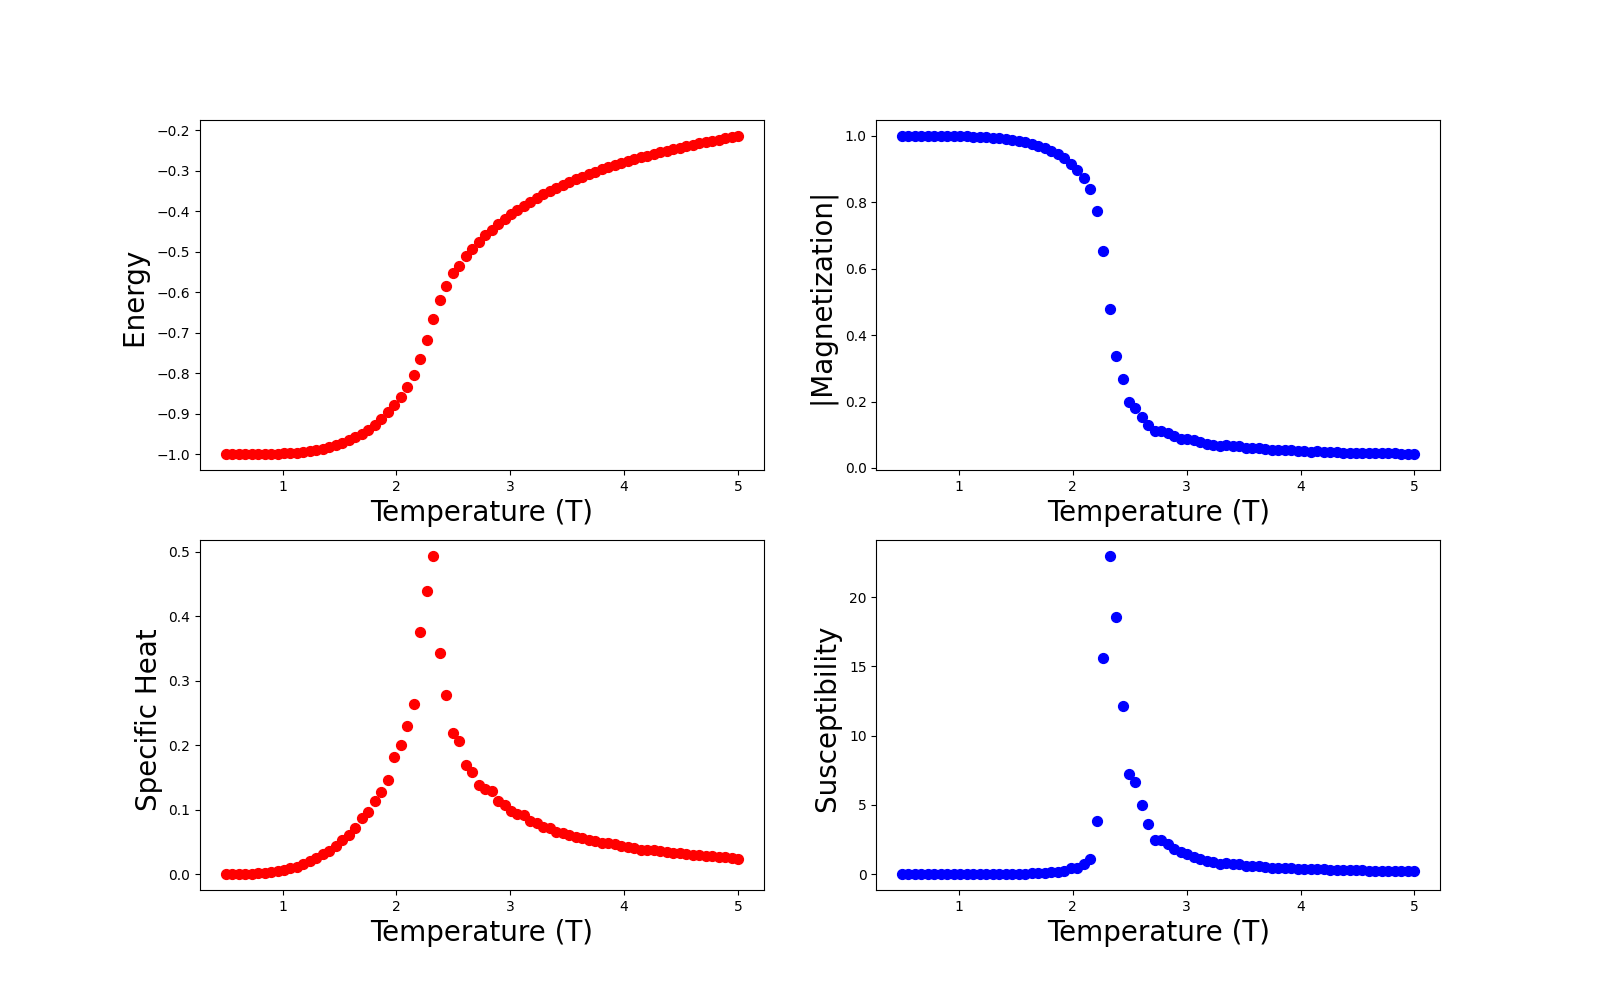
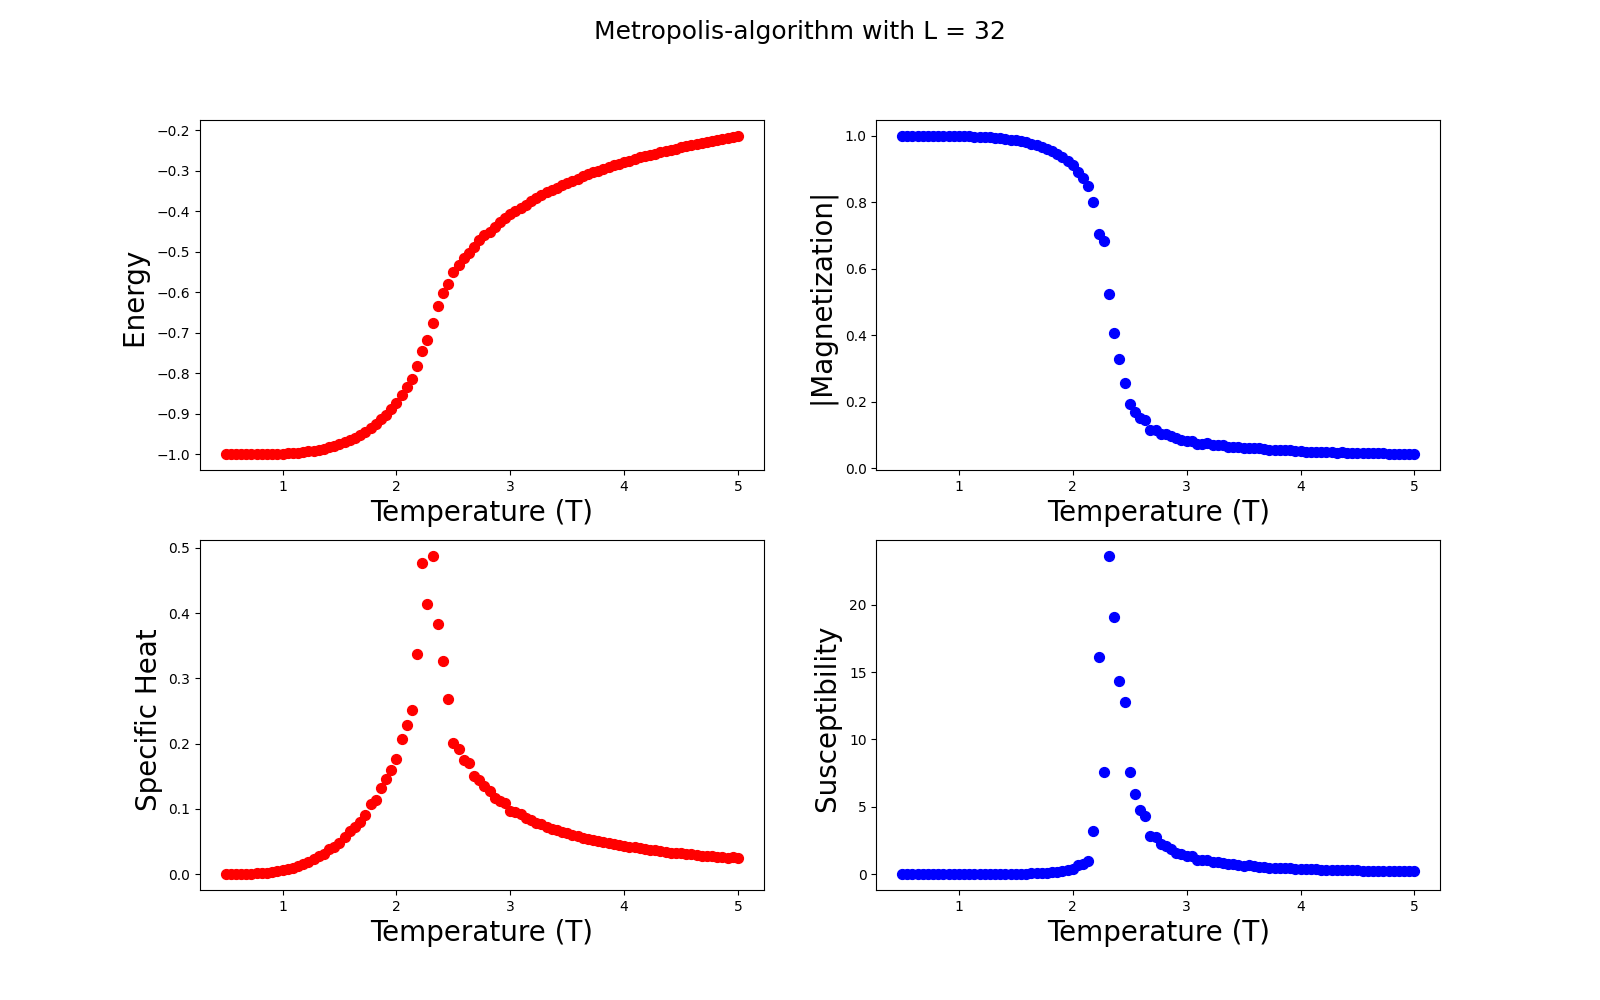
added demo

diff --git a/src/demo.py b/src/demo.py
@@ -1,0 +1,113 @@
+import argparse
+import os
+
+import numpy as np
+import matplotlib.pyplot as plt
+
+# Import from your sim.py
+from sim import init_lattice, MonterCarlo_move, Energy, Mag
+
+
+
+def make_snapshots(
+    L: int = 32,
+    T: float = 2.27,
+    eq_sweeps: int = 50000,
+    snaps: int = 6,
+    sweeps_per_step: int = 1,
+    seed: int | None = 0,
+):
+    """
+    Runs Metropolis equilibration and captures `snaps` lattice snapshots from
+    sweep 0 up to eq_sweeps.
+
+    sweeps_per_step:
+        how many Monte Carlo sweeps to apply between sweep counter increments
+        (keep at 1 if MonterCarlo_move already equals 1 sweep).
+    """
+    if seed is not None:
+        np.random.seed(seed)
+
+    J = 1.0 / T  # your convention (beta baked into J)
+    N = L * L
+
+    s = init_lattice(L)
+
+    # Choose 6 stages: 0%, 1%, 5%, 10%, 25%, 100% of equilibration
+    frac = np.array([0.0, 0.01, 0.05, 0.10, 0.25, 1.0])
+    sweep_targets = (frac * eq_sweeps).astype(int)
+
+    # Ensure strictly increasing and within bounds
+    sweep_targets = np.unique(np.clip(sweep_targets, 0, eq_sweeps))
+
+    # If unique reduced count (small eq_sweeps), pad with linear targets
+    if len(sweep_targets) < snaps:
+        sweep_targets = np.linspace(0, eq_sweeps, snaps).astype(int)
+        sweep_targets = np.unique(sweep_targets)
+
+    # If too many, keep first `snaps` (shouldn’t happen with default frac)
+    sweep_targets = sweep_targets[:snaps]
+
+    snapshots = []
+    current = 0
+
+    # Record sweep 0
+    snapshots.append((0, s.copy(), Energy(s, L, J) / N, abs(Mag(s)) / N))
+
+    for target in sweep_targets[1:]:
+        while current < target:
+            # one "sweep" of Metropolis according to your sim.py function
+            for _ in range(sweeps_per_step):
+                MonterCarlo_move(s, L, J)
+            current += 1
+
+        e = Energy(s, L, J) / N
+        m = abs(Mag(s)) / N
+        snapshots.append((current, s.copy(), e, m))
+
+    return snapshots
+
+def plot_snapshots(snapshots, L: int, T: float, outpath: str | None = None, show: bool = True):
+    fig, axes = plt.subplots(2, 3, figsize=(11, 7))
+    axes = axes.ravel()
+
+    for ax, (sw, conf, e, m) in zip(axes, snapshots):
+        ax.imshow(conf, cmap="Blues", vmin=-1, vmax=1, interpolation="nearest")
+        ax.set_title(f"{sw}")
+        ax.set_xticks([])
+        ax.set_yticks([])
+
+    # If fewer than 6 snapshots, hide remaining axes
+    for k in range(len(snapshots), 6):
+        axes[k].axis("off")
+
+    fig.suptitle(f"Metropolis equilibration snapshots (L={L}, T={T})", fontsize=14)
+    fig.tight_layout()
+
+    if outpath is not None:
+        fig.savefig(outpath, dpi=300)
+
+    if show:
+        plt.show()
+
+    plt.close(fig)
+
+if __name__ == "__main__":
+    parser = argparse.ArgumentParser(description="Snapshot demo: Metropolis equilibration (2D Ising)")
+    parser.add_argument("--L", type=int, default=32, help="Lattice size")
+    parser.add_argument("--T", type=float, default=2.27, help="Temperature")
+    parser.add_argument("--eq", type=int, default=100000, help="Equilibration sweeps")
+    parser.add_argument("--seed", type=int, default=1, help="Random seed")
+    parser.add_argument("--out", type=str, default="", help="Output filename (png). If empty, auto-name.")
+    parser.add_argument("--no-show", action="store_true", help="Do not display the figure window")
+
+    args = parser.parse_args()
+
+    snaps = make_snapshots(L=args.L, T=args.T, eq_sweeps=args.eq, seed=args.seed)
+
+    out = args.out.strip()
+    if not out:
+        out = f"./figs/equilibration_snapshots_L{args.L}_T{args.T:.3f}.png"
+
+    plot_snapshots(snaps, L=args.L, T=args.T, outpath=out, show=(not args.no_show))
+    print(f"Saved snapshots figure to: {out}")

diff --git a/src/sim.py b/src/sim.py
@@ -9,8 +9,8 @@ import json
 import argparse
 
 import os
-os.makedirs("data", exist_ok=True)
-os.makedirs("figs", exist_ok=True)
+os.makedirs("./data", exist_ok=True)
+os.makedirs("./figs", exist_ok=True)
 
 
 def init_lattice(L):
@@ -174,7 +174,8 @@ if __name__ == '__main__':
     if args.plot:
         f = plt.figure(figsize=(16,10))
 
-
+        f.suptitle(f"Metropolis-algorithm with L = {L}",
+           fontsize=18)
         sp =  f.add_subplot(2, 2, 1 );
         plt.scatter(T_list, E, s=50, color='Red')
         plt.xlabel("Temperature (T)", fontsize=20);
@@ -198,4 +199,4 @@ if __name__ == '__main__':
         plt.savefig(f'./figs/Task1_{L}x{L}')
         plt.show()
 
-print('Complete')
+    print('Complete')

diff --git a/src/sim_negative_J.py b/src/sim_negative_J.py
@@ -3,6 +3,9 @@ import matplotlib.pyplot as plt
 import json
 from tqdm.auto import tqdm
 from numba import njit
+import os
+os.makedirs("./data", exist_ok=True)
+os.makedirs("./figs", exist_ok=True)
 from sim import main, equilibriate, MonterCarlo_move, Mag, init_lattice, to_list
 
 

diff --git a/src/sim_with_B.py b/src/sim_with_B.py
@@ -4,6 +4,9 @@ import json
 from tqdm.auto import tqdm
 from numba import njit
 from sim import main, equilibriate, MonterCarlo_move, Mag, init_lattice, to_list
+import os
+os.makedirs("./data", exist_ok=True)
+os.makedirs("./figs", exist_ok=True)
 
 
 @njit(cache = True)

diff --git a/src/heat_bath.py b/src/heat_bath.py
@@ -5,7 +5,9 @@ from tqdm.auto import tqdm
 from numba import njit
 import argparse
 from sim import init_lattice, Energy, Mag, equilibriate, to_list
-
+import os
+os.makedirs("./data", exist_ok=True)
+os.makedirs("./figs", exist_ok=True)
 
 
 
